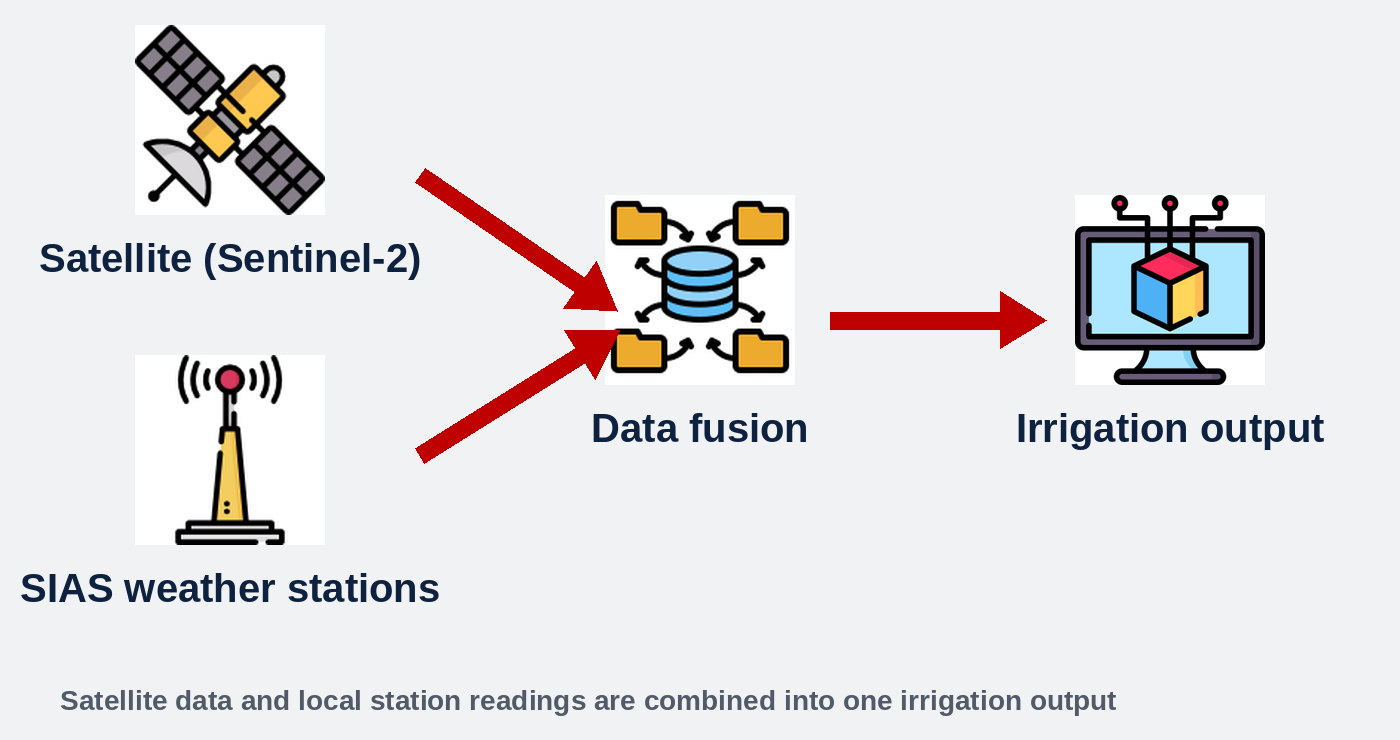
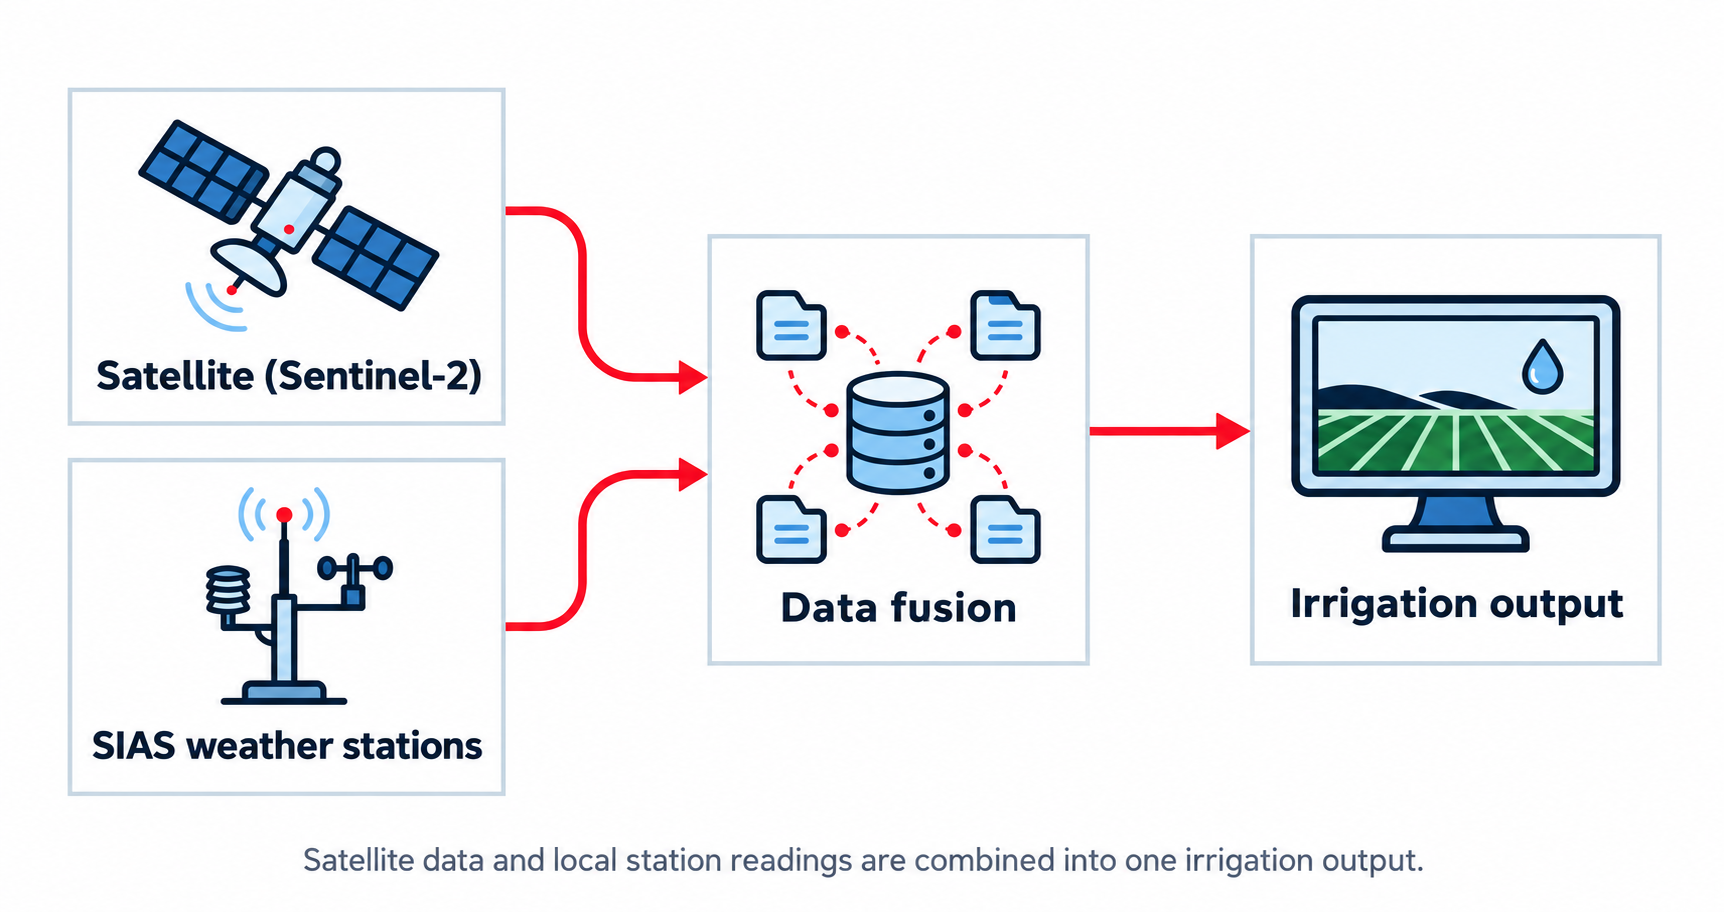
Images and titles changed

diff --git a/src/styles/index.css b/src/styles/index.css
@@ -91,6 +91,10 @@ img { display: block; max-width: 100%; }
 .about__skills p { font-size: .72rem; color: var(--muted); }
 
 /* ---------- hero banner + satellite orbit ---------- */
+/* pagine progetto: titolo e testo in basso a sinistra, lontano dal satellite */
+.hero--detail.hero--banner { display: flex; flex-direction: column; }
+.hero--detail.hero--banner .navbar, .hero--detail.hero--banner .hero__content { width: 100%; }
+.hero--detail.hero--banner .hero__content { margin-top: auto; margin-bottom: 0; }
 .hero--banner { --hero-h: clamp(480px, 42vw, 660px); height: var(--hero-h); min-height: 0; }
 .hero--banner .navbar, .hero--banner .hero__content { position: relative; z-index: 2; }
 /* leggibilità del testo a sinistra sopra il pianeta */
